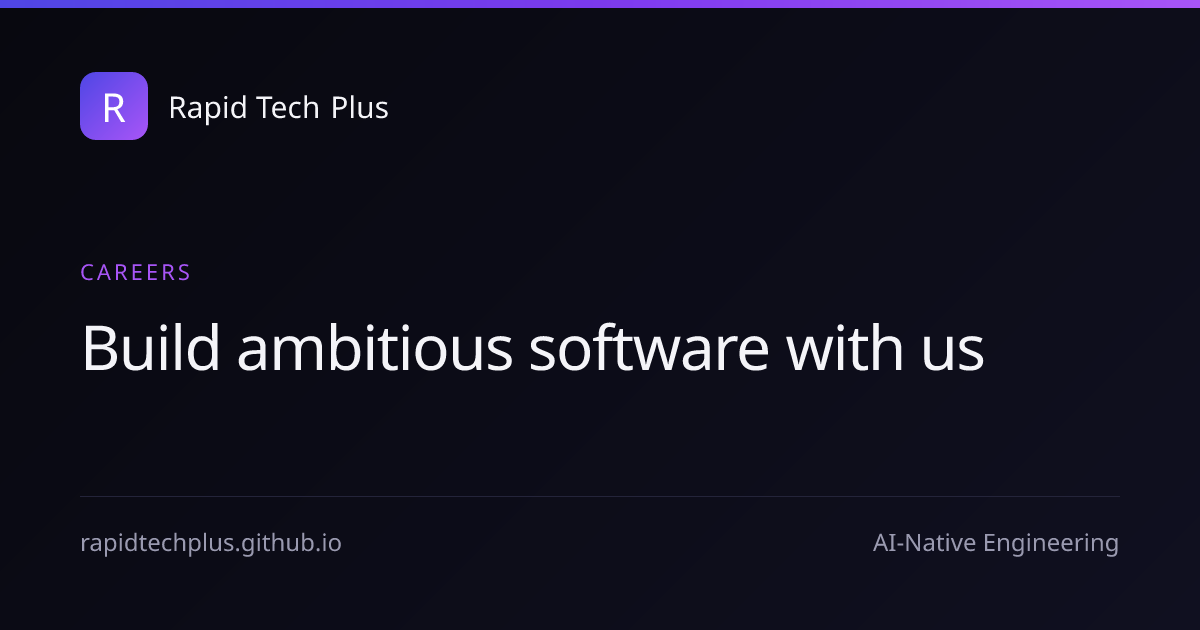
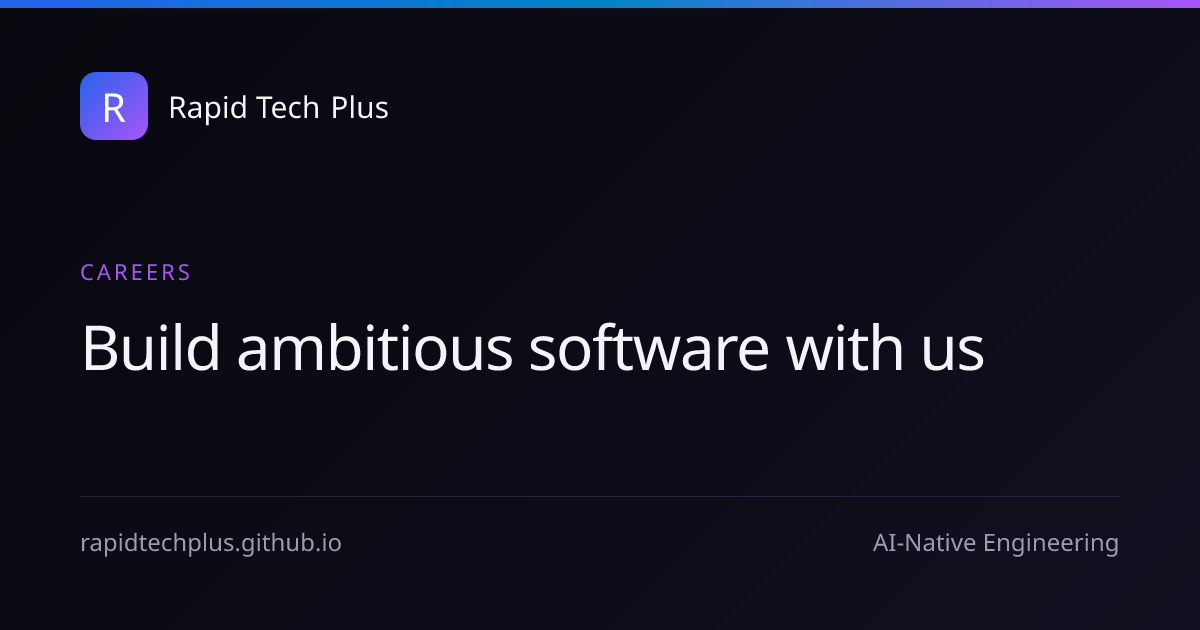
feat: visual refresh — cobalt & slate palette, calmer background (Phase 31)
Claude-Session: https://claude.ai/code/session_017wKacyMpTuoLijuJh98wmx

Changed region(s): [[0.0, 0.0, 0.8942, 0.0302], [0.0617, 0.0905, 0.1233, 0.2111]]

diff --git a/app/globals.css b/app/globals.css
@@ -15,11 +15,11 @@
    ============================================================= */
 
 @theme {
-  --color-bg: #0a0a13;
-  --color-bg-elev: #10101c;
-  --color-accent: #8a8fff;
-  --color-accent-2: #a78bfa;
-  --color-navy: #4f46e5;
+  --color-bg: #0b0f17;
+  --color-bg-elev: #111621;
+  --color-accent: #60a5fa;
+  --color-accent-2: #38bdf8;
+  --color-navy: #2563eb;
   --font-sans:
     var(--font-inter), -apple-system, BlinkMacSystemFont, "Segoe UI", Roboto,
     Helvetica, Arial, sans-serif;
@@ -32,30 +32,32 @@
 }
 
 :root {
-  /* ---- Brand palette (electric indigo → violet) ---- */
-  --brand-indigo: #4f46e5;
-  --brand-indigo-deep: #3730a3;
-  --brand-violet: #7c3aed;
-  --brand-iris: #8a8fff;
-  --brand-gray: #8b90a6;
+  /* ---- Brand palette (cobalt → sky, slate neutrals) ----
+     Token names kept (indigo/violet/iris) so the class API is stable; the
+     values were moved to a cobalt/sky ramp in the Phase 31 visual refresh. */
+  --brand-indigo: #2563eb;
+  --brand-indigo-deep: #1e40af;
+  --brand-violet: #0284c7;
+  --brand-iris: #60a5fa;
+  --brand-gray: #8b95a8;
 
   /* ---- Shared, theme-independent ---- */
-  --grad: linear-gradient(135deg, #4f46e5 0%, #8b5cf6 100%);
-  --grad-vivid: linear-gradient(135deg, #6366f1 0%, #7c3aed 100%);
+  --grad: linear-gradient(135deg, #2563eb 0%, #0ea5e9 100%);
+  --grad-vivid: linear-gradient(135deg, #3b82f6 0%, #0284c7 100%);
   --spark: #5ad1ff;
 
   /* ---- Footer palette ----
      Intentionally theme-independent: a deep indigo-ink panel in both light and
      dark so the footer reads as a distinct band from the page above it. */
   --footer-bg:
-    radial-gradient(120% 140% at 85% 0%, #241f5a 0%, transparent 55%),
-    linear-gradient(180deg, #14122e 0%, #0a0918 100%);
-  --footer-text: #f2f1fb;
-  --footer-text-muted: #b0accd;
-  --footer-text-dim: #7c789a;
+    radial-gradient(120% 140% at 85% 0%, #172554 0%, transparent 55%),
+    linear-gradient(180deg, #0f172a 0%, #020617 100%);
+  --footer-text: #f1f5f9;
+  --footer-text-muted: #a9b4c6;
+  --footer-text-dim: #7d889b;
   --footer-border: rgba(255, 255, 255, 0.09);
   --footer-surface: rgba(255, 255, 255, 0.045);
-  --footer-accent: #a6acff;
+  --footer-accent: #93c5fd;
 
   --radius-sm: 8px;
   --radius: 12px;
@@ -94,25 +96,25 @@
   --ease-exit: cubic-bezier(0.4, 0, 1, 1);
 
   /* =========================================================
-     DARK THEME (default) — deep indigo ink, luminous iris
+     DARK THEME (default) — slate ink, cobalt accent
      ========================================================= */
-  --bg: #0a0a13;
-  --bg-elev: #10101c;
-  --bg-elev-2: #171726;
+  --bg: #0b0f17;
+  --bg-elev: #111621;
+  --bg-elev-2: #182030;
   --surface: rgba(255, 255, 255, 0.028);
   --surface-2: rgba(255, 255, 255, 0.06);
   --border: rgba(255, 255, 255, 0.08);
   --border-strong: rgba(255, 255, 255, 0.14);
   --hairline: rgba(255, 255, 255, 0.055);
 
-  --text: #ededf6;
-  --text-muted: #a2a1bc;
-  --text-dim: #85849e;
+  --text: #e8edf5;
+  --text-muted: #a3acbd;
+  --text-dim: #8791a3;
 
-  --accent: #8a8fff;
-  --accent-2: #a78bfa;
-  --accent-soft: rgba(138, 143, 255, 0.13);
-  --accent-ring: rgba(138, 143, 255, 0.42);
+  --accent: #60a5fa;
+  --accent-2: #38bdf8;
+  --accent-soft: rgba(96, 165, 250, 0.13);
+  --accent-ring: rgba(96, 165, 250, 0.42);
 
   --success: #3dd68c;
   --warning: #f5b94b;
@@ -121,47 +123,47 @@
   --warning-soft: rgba(245, 185, 75, 0.12);
   --error-soft: rgba(240, 98, 93, 0.12);
 
-  --grad-text: linear-gradient(115deg, #c7c2ff 0%, #a897ff 50%, #8a8fff 100%);
+  --grad-text: linear-gradient(115deg, #bfdbfe 0%, #7dd3fc 50%, #60a5fa 100%);
 
-  --nav-bg: rgba(10, 10, 19, 0.72);
-  --aurora-1: rgba(124, 58, 237, 0.26);
-  --aurora-2: rgba(79, 70, 229, 0.28);
-  --aurora-3: rgba(90, 209, 255, 0.1);
+  --nav-bg: rgba(11, 15, 23, 0.72);
+  --aurora-1: rgba(14, 165, 233, 0.14);
+  --aurora-2: rgba(37, 99, 235, 0.16);
+  --aurora-3: rgba(90, 209, 255, 0.06);
   --grid-line: rgba(255, 255, 255, 0.032);
-  --particle: rgba(199, 194, 255, 0.55);
-  --cta-glow: rgba(99, 102, 241, 0.3);
+  --particle: rgba(191, 219, 254, 0.35);
+  --cta-glow: rgba(59, 130, 246, 0.3);
   --on-accent: #ffffff;
 
   --shadow-sm: 0 1px 2px rgba(0, 0, 0, 0.45);
   --shadow-md: 0 10px 32px rgba(0, 0, 0, 0.4);
   --shadow-lg: 0 24px 64px rgba(0, 0, 0, 0.5);
-  --shadow-glow: 0 16px 48px rgba(99, 102, 241, 0.28);
+  --shadow-glow: 0 16px 48px rgba(59, 130, 246, 0.28);
 
   color-scheme: dark;
 }
 
 /* =========================================================
-   LIGHT THEME — cool off-white, confident navy ink
+   LIGHT THEME — cool off-white, slate ink, cobalt accent
    Independently tuned: not a straight inversion.
    ========================================================= */
 .light {
-  --bg: #fbfbfd;
+  --bg: #fafbfc;
   --bg-elev: #ffffff;
-  --bg-elev-2: #f3f3f8;
-  --surface: rgba(24, 23, 46, 0.022);
-  --surface-2: rgba(24, 23, 46, 0.05);
-  --border: rgba(24, 23, 46, 0.09);
-  --border-strong: rgba(24, 23, 46, 0.16);
-  --hairline: rgba(24, 23, 46, 0.06);
+  --bg-elev-2: #f1f5f9;
+  --surface: rgba(15, 23, 42, 0.022);
+  --surface-2: rgba(15, 23, 42, 0.05);
+  --border: rgba(15, 23, 42, 0.09);
+  --border-strong: rgba(15, 23, 42, 0.16);
+  --hairline: rgba(15, 23, 42, 0.06);
 
-  --text: #16152a;
-  --text-muted: #52516a;
-  --text-dim: #6b6a80;
+  --text: #0f172a;
+  --text-muted: #475569;
+  --text-dim: #64748b;
 
-  --accent: #4f46e5;
-  --accent-2: #7c3aed;
-  --accent-soft: rgba(79, 70, 229, 0.08);
-  --accent-ring: rgba(79, 70, 229, 0.26);
+  --accent: #2563eb;
+  --accent-2: #0284c7;
+  --accent-soft: rgba(37, 99, 235, 0.08);
+  --accent-ring: rgba(37, 99, 235, 0.26);
 
   --success: #0e9f6e;
   --warning: #b45309;
@@ -170,21 +172,21 @@
   --warning-soft: rgba(180, 83, 9, 0.1);
   --error-soft: rgba(220, 38, 38, 0.08);
 
-  --grad-text: linear-gradient(115deg, #4f46e5 0%, #6d28d9 50%, #9333ea 100%);
+  --grad-text: linear-gradient(115deg, #2563eb 0%, #1d4ed8 50%, #0369a1 100%);
 
-  --nav-bg: rgba(251, 251, 253, 0.78);
-  --aurora-1: rgba(124, 58, 237, 0.1);
-  --aurora-2: rgba(79, 70, 229, 0.09);
+  --nav-bg: rgba(250, 251, 252, 0.78);
+  --aurora-1: rgba(14, 165, 233, 0.1);
+  --aurora-2: rgba(37, 99, 235, 0.09);
   --aurora-3: rgba(90, 209, 255, 0.1);
-  --grid-line: rgba(24, 23, 46, 0.045);
-  --particle: rgba(79, 70, 229, 0.3);
-  --cta-glow: rgba(99, 102, 241, 0.16);
+  --grid-line: rgba(15, 23, 42, 0.045);
+  --particle: rgba(37, 99, 235, 0.18);
+  --cta-glow: rgba(59, 130, 246, 0.16);
   --on-accent: #ffffff;
 
-  --shadow-sm: 0 1px 2px rgba(24, 23, 46, 0.05);
-  --shadow-md: 0 12px 32px rgba(30, 25, 90, 0.08);
-  --shadow-lg: 0 24px 56px rgba(30, 25, 90, 0.12);
-  --shadow-glow: 0 16px 48px rgba(79, 70, 229, 0.16);
+  --shadow-sm: 0 1px 2px rgba(15, 23, 42, 0.05);
+  --shadow-md: 0 12px 32px rgba(15, 23, 42, 0.08);
+  --shadow-lg: 0 24px 56px rgba(15, 23, 42, 0.12);
+  --shadow-glow: 0 16px 48px rgba(37, 99, 235, 0.16);
 
   color-scheme: light;
 }
@@ -396,19 +398,19 @@ section {
   white-space: nowrap;
 }
 .btn-primary {
-  background: linear-gradient(180deg, #6165f0 0%, #4f46e5 100%);
+  background: linear-gradient(180deg, #2563eb 0%, #2563eb 100%);
   color: var(--on-accent);
   border-color: rgba(255, 255, 255, 0.12);
   box-shadow:
-    0 1px 2px rgba(10, 10, 19, 0.3),
+    0 1px 2px rgba(11, 15, 23, 0.3),
     0 8px 22px var(--cta-glow),
     inset 0 1px 0 rgba(255, 255, 255, 0.22);
 }
 .btn-primary:hover {
   transform: translateY(-1px);
-  background: linear-gradient(180deg, #6165f0 0%, #574ee8 100%);
+  background: linear-gradient(180deg, #2563eb 0%, #2563eb 100%);
   box-shadow:
-    0 2px 4px rgba(10, 10, 19, 0.3),
+    0 2px 4px rgba(11, 15, 23, 0.3),
     0 12px 30px var(--cta-glow),
     inset 0 1px 0 rgba(255, 255, 255, 0.26);
 }
@@ -423,9 +425,9 @@ section {
   transition-duration: 0.08s;
 }
 .btn-primary:active {
-  background: linear-gradient(180deg, #5a5eee 0%, #4a41d9 100%);
+  background: linear-gradient(180deg, #3b82f6 0%, #1d4ed8 100%);
   box-shadow:
-    0 1px 2px rgba(10, 10, 19, 0.35),
+    0 1px 2px rgba(11, 15, 23, 0.35),
     0 4px 12px var(--cta-glow),
     inset 0 1px 0 rgba(255, 255, 255, 0.14);
 }
@@ -570,7 +572,7 @@ section {
   height: 38px;
   border-radius: 11px;
   box-shadow:
-    0 6px 18px rgba(91, 70, 229, 0.42),
+    0 6px 18px rgba(37, 99, 235, 0.42),
     inset 0 0 0 1px rgba(255, 255, 255, 0.08);
 }
 .nav-links {
@@ -1116,7 +1118,7 @@ section {
   gap: 8px;
   padding: 10px 16px;
   border-radius: 9px;
-  background: linear-gradient(180deg, #6165f0 0%, #4f46e5 100%);
+  background: linear-gradient(180deg, #2563eb 0%, #2563eb 100%);
   color: var(--on-accent);
   font-size: 0.82rem;
   font-weight: 600;
@@ -1128,7 +1130,7 @@ section {
   transition: transform 0.2s var(--ease);
 }
 .mm-feature-cta:hover {
-  background: linear-gradient(180deg, #6165f0 0%, #574ee8 100%);
+  background: linear-gradient(180deg, #2563eb 0%, #2563eb 100%);
   transform: translateY(-1px);
 }
 .mm-feature-cta:focus-visible,
@@ -1354,7 +1356,7 @@ section {
   gap: 8px;
   padding: 10px 16px;
   border-radius: 9px;
-  background: linear-gradient(180deg, #6165f0 0%, #4f46e5 100%);
+  background: linear-gradient(180deg, #2563eb 0%, #2563eb 100%);
   color: var(--on-accent);
   font-size: 0.82rem;
   font-weight: 600;
@@ -1367,7 +1369,7 @@ section {
   transition: transform 0.2s var(--ease);
 }
 .mm-co-cta:hover {
-  background: linear-gradient(180deg, #6165f0 0%, #574ee8 100%);
+  background: linear-gradient(180deg, #2563eb 0%, #2563eb 100%);
   transform: translateY(-1px);
 }
 .mm-co-cta:hover span {
@@ -1501,7 +1503,7 @@ section {
    *on* the canvas, so white text on it fails AA in dark (measured 2.82:1). This
    gradient carries --on-accent at ≥4.5:1 in both themes, matching .mm-feature-cta. */
 .mm-foot-cta:hover {
-  background: linear-gradient(180deg, #6165f0 0%, #4f46e5 100%);
+  background: linear-gradient(180deg, #2563eb 0%, #2563eb 100%);
   color: var(--on-accent);
   border-color: transparent;
 }
@@ -3652,7 +3654,7 @@ a.contact-method:hover .cm-value {
 .footer .foot-social a:hover {
   color: var(--footer-text);
   border-color: var(--footer-accent);
-  background: rgba(166, 172, 255, 0.12);
+  background: rgba(147, 197, 253, 0.12);
   transform: translateY(-2px);
 }
 .footer .foot-social a:active {
@@ -4427,7 +4429,7 @@ a.contact-method:hover .cm-value {
   position: fixed;
   inset: var(--nav-h) 0 0;
   z-index: 40;
-  background: rgba(4, 4, 10, 0.55);
+  background: rgba(2, 6, 23, 0.55);
   backdrop-filter: blur(2px);
   opacity: 0;
   pointer-events: none;

diff --git a/app/global-error.tsx b/app/global-error.tsx
@@ -34,9 +34,9 @@ export default function GlobalError({
       >
         {/* Scoped theme tokens — no globals.css available in this boundary. */}
         <style>{`
-          :root { --bg: #fbfbfd; --fg: #12121a; --dim: #55556a; --accent: #4f46e5; --on-accent: #fff; --line: #e6e6ee; }
+          :root { --bg: #fbfbfd; --fg: #12121a; --dim: #55556a; --accent: #2563eb; --on-accent: #fff; --line: #e6e6ee; }
           @media (prefers-color-scheme: dark) {
-            :root { --bg: #0a0a13; --fg: #f4f4fa; --dim: #a5a5bd; --accent: #8a8fff; --on-accent: #0a0a13; --line: #23232f; }
+            :root { --bg: #0b0f17; --fg: #f4f4fa; --dim: #a5a5bd; --accent: #60a5fa; --on-accent: #0b0f17; --line: #23232f; }
           }
           .ge-btn:focus-visible { outline: 2px solid var(--accent); outline-offset: 3px; }
         `}</style>
@@ -94,7 +94,7 @@ export default function GlobalError({
                 padding: "12px 22px",
                 fontSize: "0.98rem",
                 fontWeight: 600,
-                background: "linear-gradient(180deg, #6165f0, #4f46e5)",
+                background: "linear-gradient(180deg, #2563eb, #2563eb)",
                 color: "#fff",
               }}
             >

diff --git a/app/layout.tsx b/app/layout.tsx
@@ -84,12 +84,12 @@ export default function RootLayout({
       <head>
         <meta
           name="theme-color"
-          content="#0a0a13"
+          content="#0b0f17"
           media="(prefers-color-scheme: dark)"
         />
         <meta
           name="theme-color"
-          content="#fbfbfd"
+          content="#fafbfc"
           media="(prefers-color-scheme: light)"
         />
         {/* Site-wide nodes. Pages reference these by `@id` instead of repeating them. */}

diff --git a/lib/og-image.tsx b/lib/og-image.tsx
@@ -17,8 +17,8 @@ export const OG_CONTENT_TYPE = "image/png";
 
 const INK = "#08080f";
 const INK_2 = "#101020";
-const ACCENT_FROM = "#4f46e5";
-const ACCENT_MID = "#7c3aed";
+const ACCENT_FROM = "#2563eb";
+const ACCENT_MID = "#0284c7";
 const ACCENT_TO = "#a855f7";
 const TEXT = "#f4f4f8";
 const TEXT_DIM = "#9a9ab0";

diff --git a/docs/roadmap/task-backlog.md b/docs/roadmap/task-backlog.md
@@ -2089,6 +2089,25 @@ overflow at every width 320–1280.
 
 ---
 
+## Phase 31 — Visual refresh: cobalt & slate palette ✅
+
+Owner-approved low-risk refresh, done entirely through tokens and literals in
+`app/globals.css` (class API unchanged, so every page inherits it).
+
+- [x] Palette moved from indigo/violet to a cobalt → sky ramp on slate neutrals
+      (both themes tuned separately; token names kept for API stability)
+- [x] Calmer background: aurora opacity roughly halved, particles dimmed
+- [x] `theme-color` metas, `global-error.tsx` and OG template recoloured;
+      13 OG images regenerated (`npm run og:generate`)
+- [x] Verified: lint, typecheck, build; home page has no horizontal overflow at
+      360/768/1280/1440/1920 in light + dark (Playwright/Chromium screenshots)
+- [x] Contrast: accent `#2563eb` on white ≈ 5.2:1, `#60a5fa` on `#0b0f17` ≈ 7.5:1;
+      muted text uses Tailwind slate-600/500 (≥ 4.5:1 on light bg)
+- ⚠ Not verified here: Lighthouse, Firefox/Safari/Edge, inner pages beyond spot checks
+- [ ] Follow-up: official logo mark is still violet — needs a brand-asset
+      decision (recolour vs keep as deliberate contrast)
+- [ ] Follow-up: type-scale/spacing pass (phase 2 of the refresh), if wanted
+
 ## Phase 6 — Future Expansion (superseded — see Phases A–O above)
 
 - [ ] Product detail pages (`generateStaticParams` from `content/`)
